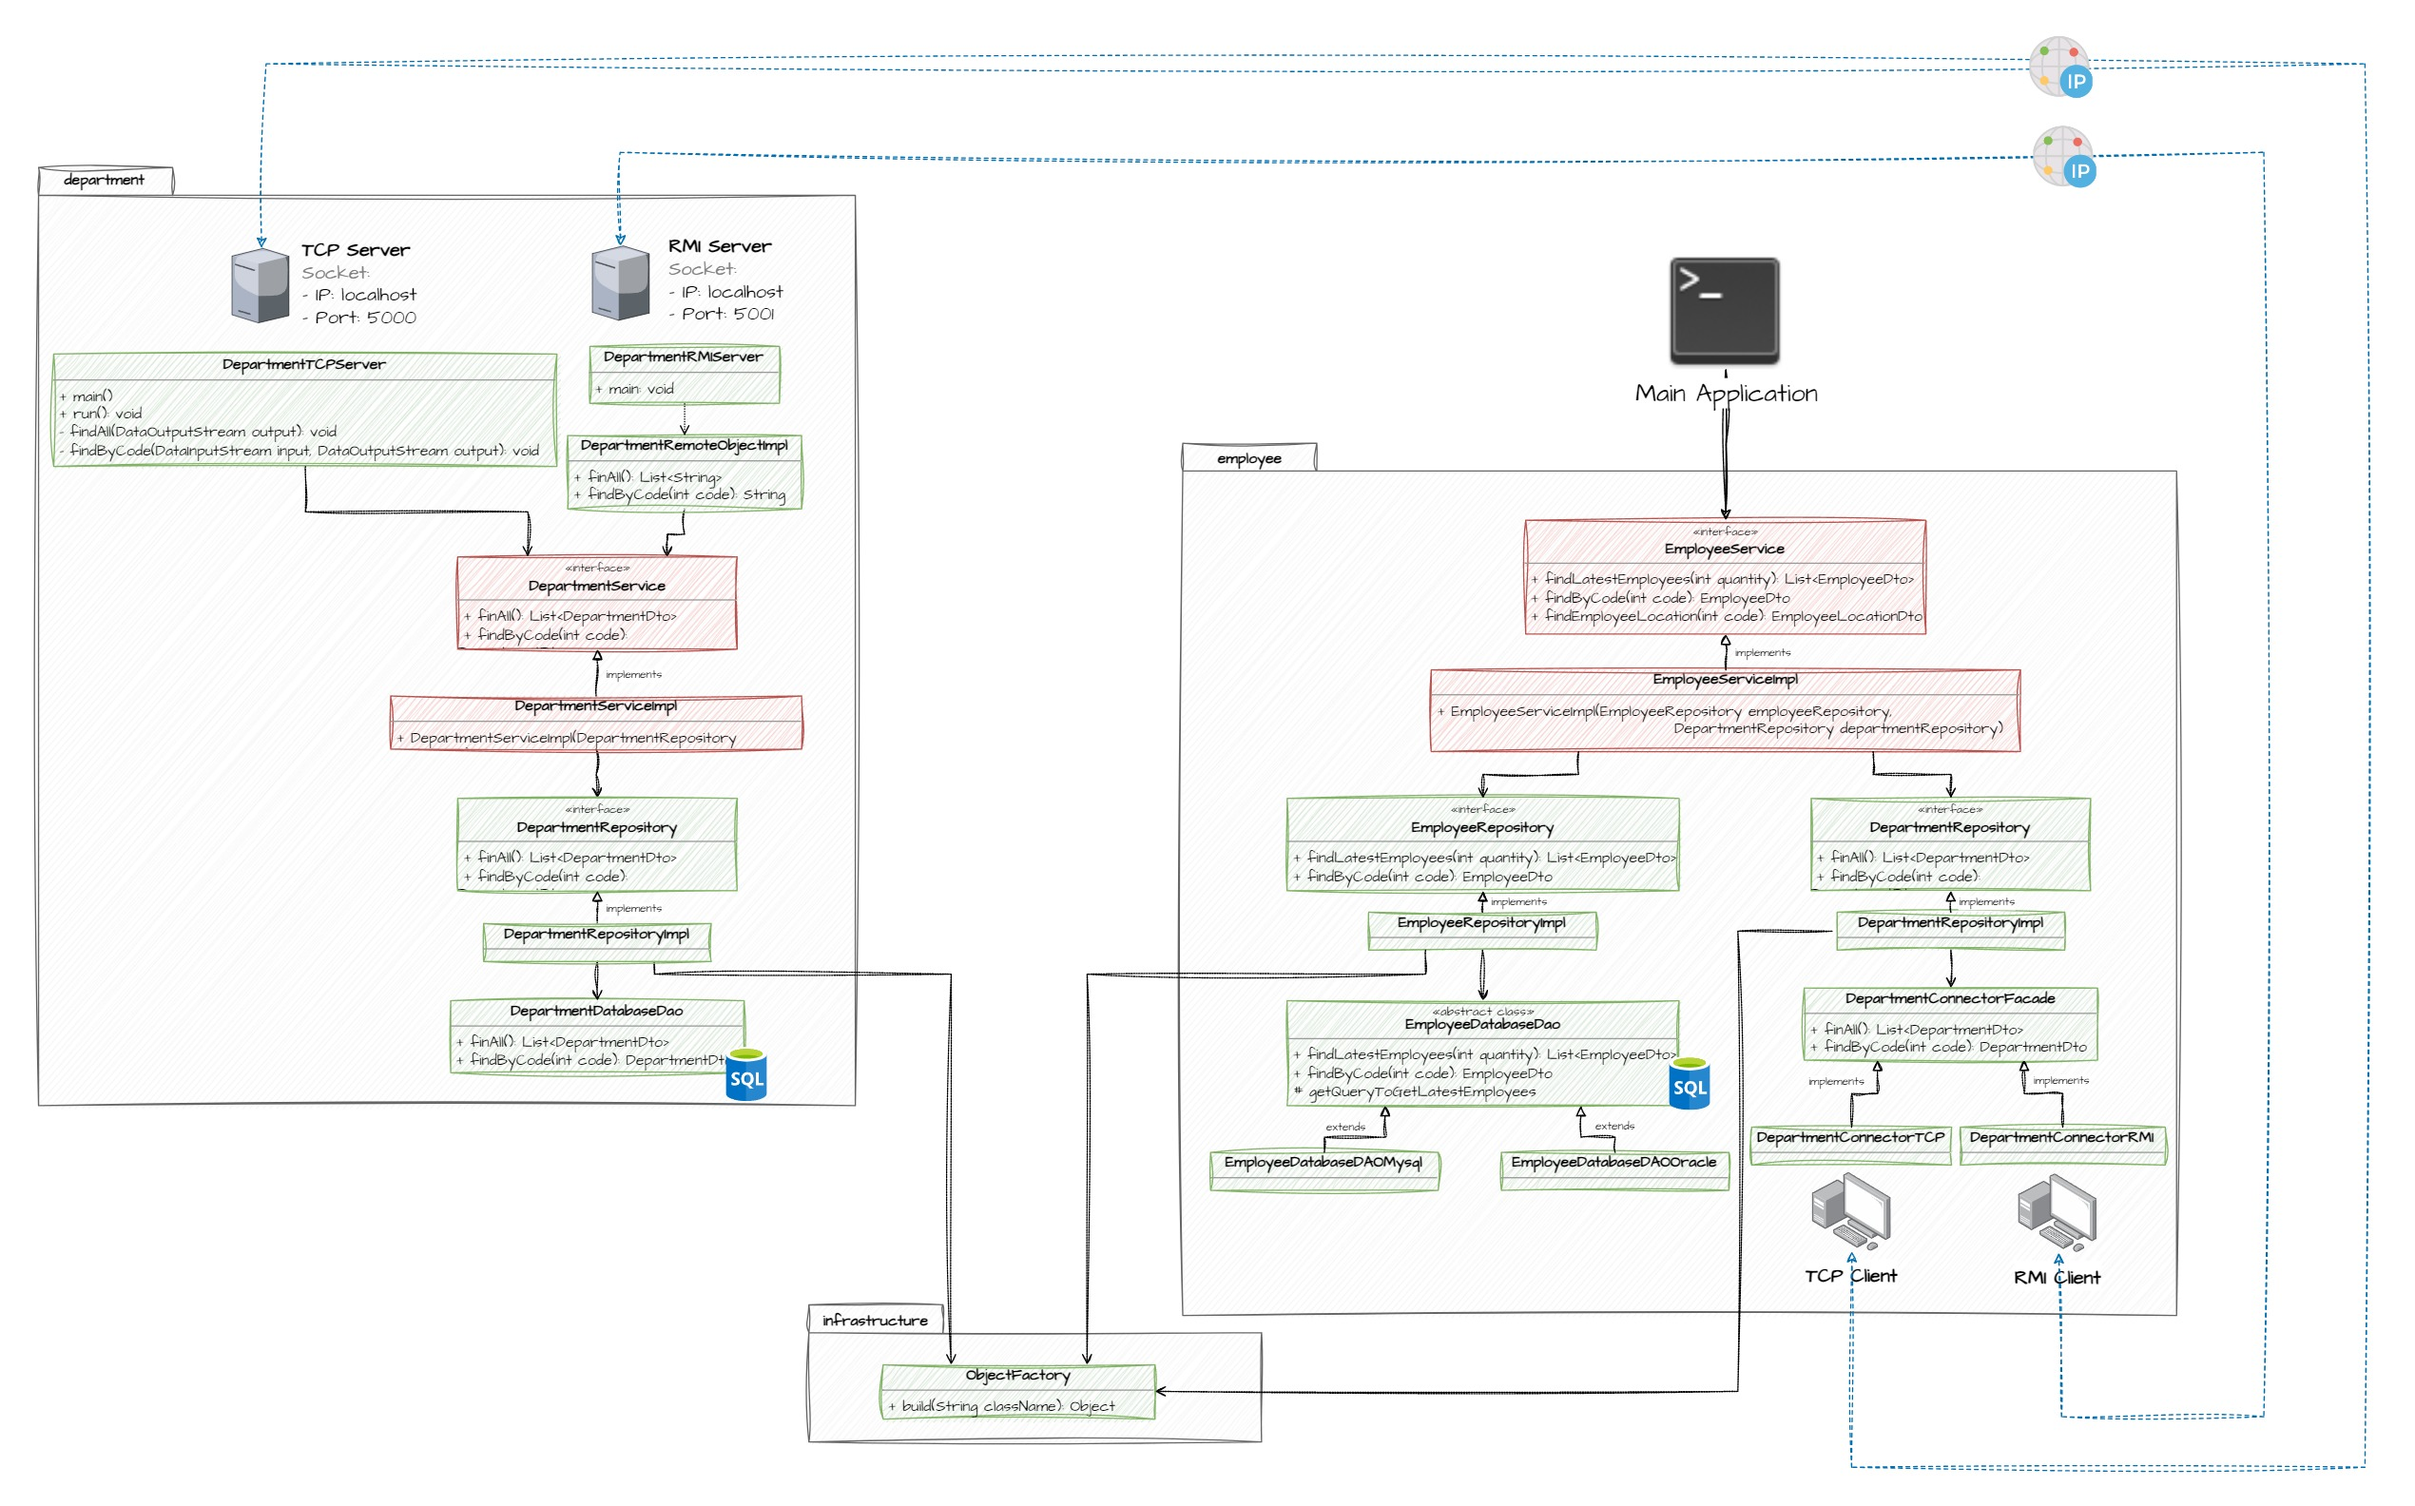
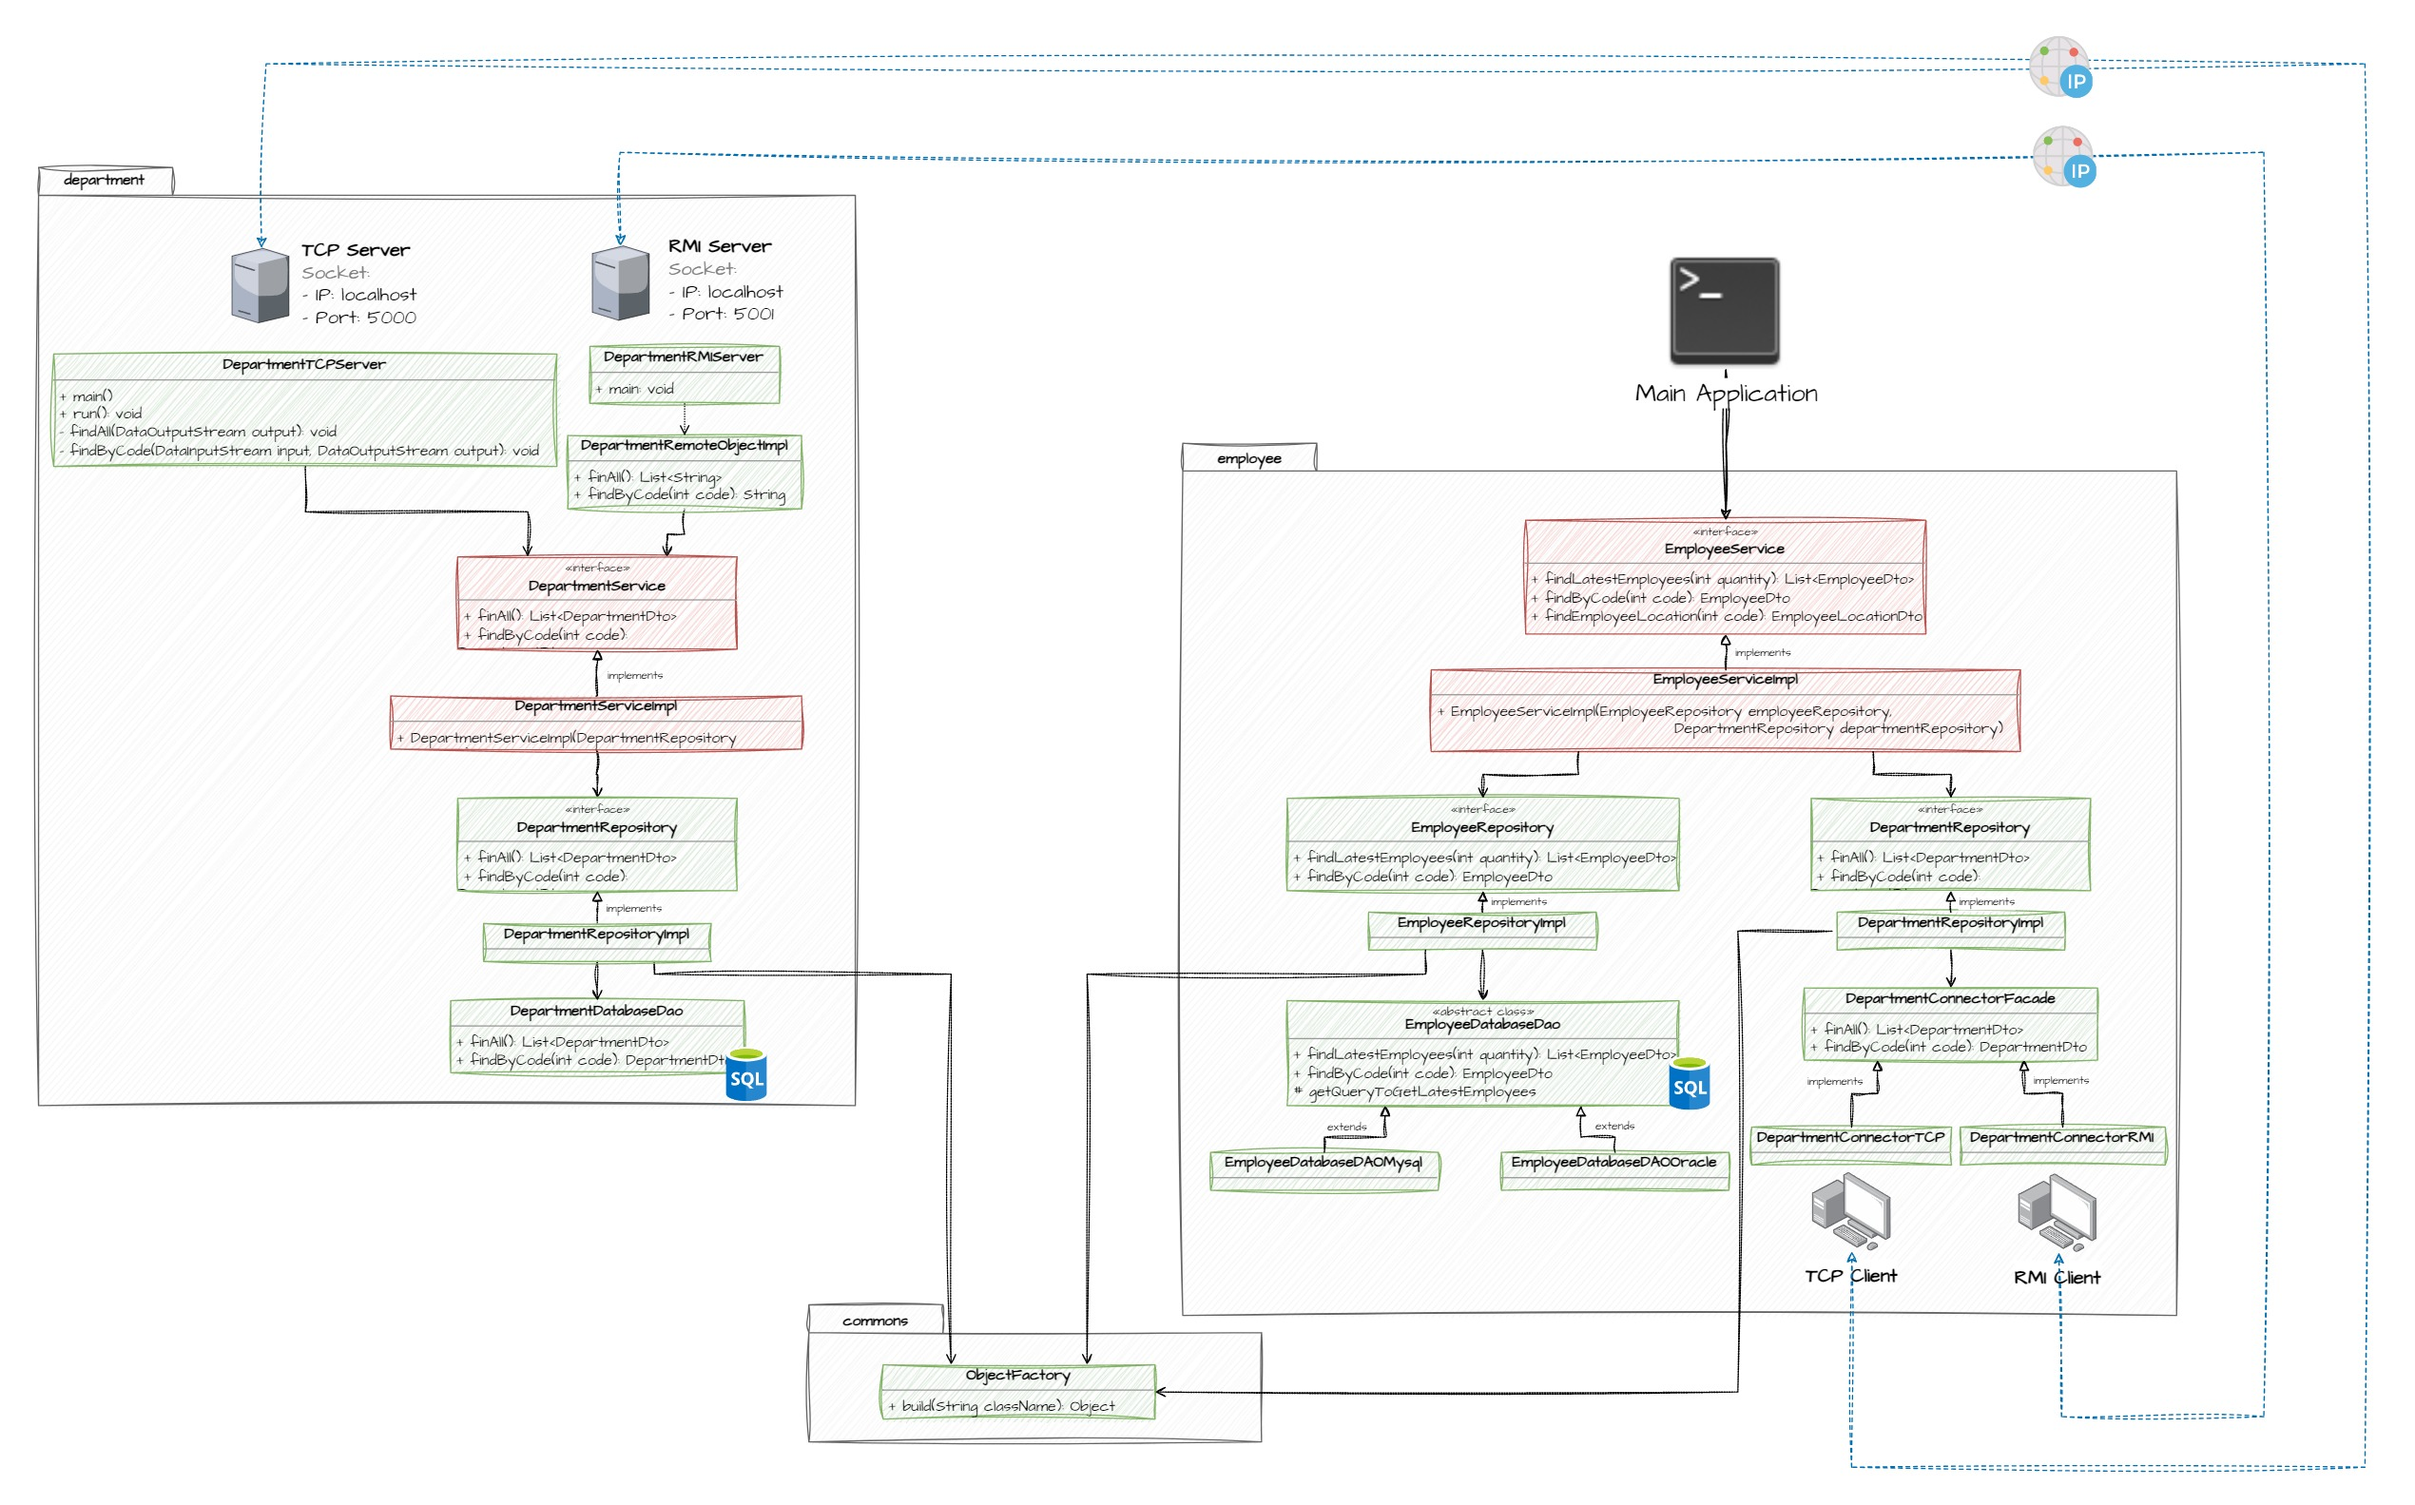
fix uml diagram

diff --git a/src/main/java/com/demo/java7/business/department/infrastructure/expose/webservice/tcp/DepartmentTCPServer.java b/src/main/java/com/demo/java7/business/department/infrastructure/expose/webservice/tcp/DepartmentTCPServer.java
@@ -4,8 +4,8 @@ import com.demo.java7.business.department.application.service.DepartmentService;
 import com.demo.java7.business.department.application.service.DepartmentServiceImpl;
 import com.demo.java7.business.department.domain.model.DepartmentDto;
 import com.demo.java7.business.department.infrastructure.consume.repository.DepartmentRepositoryImpl;
-import com.demo.java7.business.infrastructure.constant.NetworkConstant;
-import com.demo.java7.business.infrastructure.enums.TcpServicesEnum;
+import com.demo.java7.business.commons.constant.NetworkConstant;
+import com.demo.java7.business.commons.enums.TcpServicesEnum;
 import java.io.DataInputStream;
 import java.io.DataOutputStream;
 import java.io.IOException;

diff --git a/src/main/java/com/demo/java7/business/employee/infrastructure/consume/employee/repository/EmployeeRepositoryImpl.java b/src/main/java/com/demo/java7/business/employee/infrastructure/consume/employee/repository/EmployeeRepositoryImpl.java
@@ -3,8 +3,8 @@ package com.demo.java7.business.employee.infrastructure.consume.employee.reposit
 import com.demo.java7.business.employee.infrastructure.consume.constant.EmployeeConstant;
 import com.demo.java7.business.employee.infrastructure.consume.employee.dao.EmployeeDatabaseDAO;
 import com.demo.java7.business.employee.domain.model.EmployeeDto;
-import com.demo.java7.business.infrastructure.util.ObjectFactory;
-import com.demo.java7.business.infrastructure.util.PropertiesReader;
+import com.demo.java7.business.commons.util.ObjectFactory;
+import com.demo.java7.business.commons.util.PropertiesReader;
 import java.util.List;
 
 public class EmployeeRepositoryImpl implements EmployeeRepository {

diff --git a/src/main/java/com/demo/java7/business/employee/infrastructure/consume/department/repository/DepartmentRepositoryImpl.java b/src/main/java/com/demo/java7/business/employee/infrastructure/consume/department/repository/DepartmentRepositoryImpl.java
@@ -3,8 +3,8 @@ package com.demo.java7.business.employee.infrastructure.consume.department.repos
 import com.demo.java7.business.department.domain.model.DepartmentDto;
 import com.demo.java7.business.department.infrastructure.constant.DepartmentConstant;
 import com.demo.java7.business.employee.infrastructure.consume.department.connector.DepartmentConnectorFacade;
-import com.demo.java7.business.infrastructure.util.ObjectFactory;
-import com.demo.java7.business.infrastructure.util.PropertiesReader;
+import com.demo.java7.business.commons.util.ObjectFactory;
+import com.demo.java7.business.commons.util.PropertiesReader;
 import java.util.List;
 
 /**

diff --git a/src/main/java/com/demo/java7/business/department/infrastructure/consume/repository/DepartmentRepositoryImpl.java b/src/main/java/com/demo/java7/business/department/infrastructure/consume/repository/DepartmentRepositoryImpl.java
@@ -3,8 +3,8 @@ package com.demo.java7.business.department.infrastructure.consume.repository;
 import com.demo.java7.business.department.domain.model.DepartmentDto;
 import com.demo.java7.business.department.infrastructure.constant.DepartmentConstant;
 import com.demo.java7.business.department.infrastructure.consume.dao.DepartmentDatabaseDAO;
-import com.demo.java7.business.infrastructure.util.ObjectFactory;
-import com.demo.java7.business.infrastructure.util.PropertiesReader;
+import com.demo.java7.business.commons.util.ObjectFactory;
+import com.demo.java7.business.commons.util.PropertiesReader;
 import java.util.List;
 
 /**

diff --git a/src/main/java/com/demo/java7/business/employee/infrastructure/consume/department/dao/DepartmentTCPDAO.java b/src/main/java/com/demo/java7/business/employee/infrastructure/consume/department/dao/DepartmentTCPDAO.java
@@ -8,8 +8,8 @@ import java.util.Vector;
 
 import com.demo.java7.business.employee.infrastructure.consume.department.mapper.DepartmentMapper;
 import com.demo.java7.business.department.domain.model.DepartmentDto;
-import com.demo.java7.business.infrastructure.constant.NetworkConstant;
-import com.demo.java7.business.infrastructure.enums.TcpServicesEnum;
+import com.demo.java7.business.commons.constant.NetworkConstant;
+import com.demo.java7.business.commons.enums.TcpServicesEnum;
 
 /**
  * Tendrá tantos métodos estáticos como servicios ofrece el servidor TCP.

diff --git a/src/main/java/com/demo/java7/business/employee/infrastructure/consume/department/connector/DepartmentConnectorRMI.java b/src/main/java/com/demo/java7/business/employee/infrastructure/consume/department/connector/DepartmentConnectorRMI.java
@@ -4,7 +4,7 @@ import com.demo.java7.business.employee.infrastructure.consume.department.dao.De
 import com.demo.java7.business.employee.infrastructure.consume.department.mapper.DepartmentMapper;
 import com.demo.java7.business.department.domain.model.DepartmentDto;
 import com.demo.java7.business.department.infrastructure.expose.webservice.rmi.DepartmentRemoteObject;
-import com.demo.java7.business.infrastructure.enums.RMIRemoteObjectEnum;
+import com.demo.java7.business.commons.enums.RMIRemoteObjectEnum;
 import java.util.ArrayList;
 import java.util.List;
 

diff --git a/src/main/java/com/demo/java7/business/department/infrastructure/expose/webservice/rmi/DepartmentRMIServer.java b/src/main/java/com/demo/java7/business/department/infrastructure/expose/webservice/rmi/DepartmentRMIServer.java
@@ -1,7 +1,7 @@
 package com.demo.java7.business.department.infrastructure.expose.webservice.rmi;
 
-import com.demo.java7.business.infrastructure.enums.RMIRemoteObjectEnum;
-import com.demo.java7.business.infrastructure.constant.NetworkConstant;
+import com.demo.java7.business.commons.enums.RMIRemoteObjectEnum;
+import com.demo.java7.business.commons.constant.NetworkConstant;
 import java.rmi.RemoteException;
 import java.rmi.registry.LocateRegistry;
 import java.rmi.registry.Registry;

diff --git a/src/main/java/com/demo/java7/business/employee/infrastructure/consume/employee/dao/EmployeeDatabaseDAO.java b/src/main/java/com/demo/java7/business/employee/infrastructure/consume/employee/dao/EmployeeDatabaseDAO.java
@@ -1,7 +1,7 @@
 package com.demo.java7.business.employee.infrastructure.consume.employee.dao;
 
 import com.demo.java7.business.employee.domain.model.EmployeeDto;
-import com.demo.java7.business.infrastructure.database.config.DatabaseConnection;
+import com.demo.java7.business.commons.database.config.DatabaseConnection;
 import java.sql.Connection;
 import java.sql.PreparedStatement;
 import java.sql.ResultSet;

diff --git a/src/main/java/com/demo/java7/business/department/infrastructure/consume/dao/DepartmentDatabaseDAO.java b/src/main/java/com/demo/java7/business/department/infrastructure/consume/dao/DepartmentDatabaseDAO.java
@@ -1,7 +1,7 @@
 package com.demo.java7.business.department.infrastructure.consume.dao;
 
 import com.demo.java7.business.department.domain.model.DepartmentDto;
-import com.demo.java7.business.infrastructure.database.config.DatabaseConnection;
+import com.demo.java7.business.commons.database.config.DatabaseConnection;
 import java.sql.Connection;
 import java.sql.PreparedStatement;
 import java.sql.ResultSet;

diff --git a/src/main/java/com/demo/java7/business/commons/database/config/DatabaseConnection.java b/src/main/java/com/demo/java7/business/commons/database/config/DatabaseConnection.java
@@ -1,6 +1,6 @@
-package com.demo.java7.business.infrastructure.database.config;
+package com.demo.java7.business.commons.database.config;
 
-import com.demo.java7.business.infrastructure.util.PropertiesReader;
+import com.demo.java7.business.commons.util.PropertiesReader;
 import java.sql.Connection;
 import java.sql.DriverManager;
 

diff --git a/src/main/java/com/demo/java7/business/employee/infrastructure/consume/department/dao/DepartmentRMIDAO.java b/src/main/java/com/demo/java7/business/employee/infrastructure/consume/department/dao/DepartmentRMIDAO.java
@@ -1,6 +1,6 @@
 package com.demo.java7.business.employee.infrastructure.consume.department.dao;
 
-import com.demo.java7.business.infrastructure.constant.NetworkConstant;
+import com.demo.java7.business.commons.constant.NetworkConstant;
 import java.rmi.registry.LocateRegistry;
 import java.rmi.registry.Registry;
 

diff --git a/src/main/java/com/demo/java7/business/commons/util/PropertiesReader.java b/src/main/java/com/demo/java7/business/commons/util/PropertiesReader.java
@@ -1,4 +1,4 @@
-package com.demo.java7.business.infrastructure.util;
+package com.demo.java7.business.commons.util;
 
 import java.io.FileInputStream;
 import java.io.IOException;
